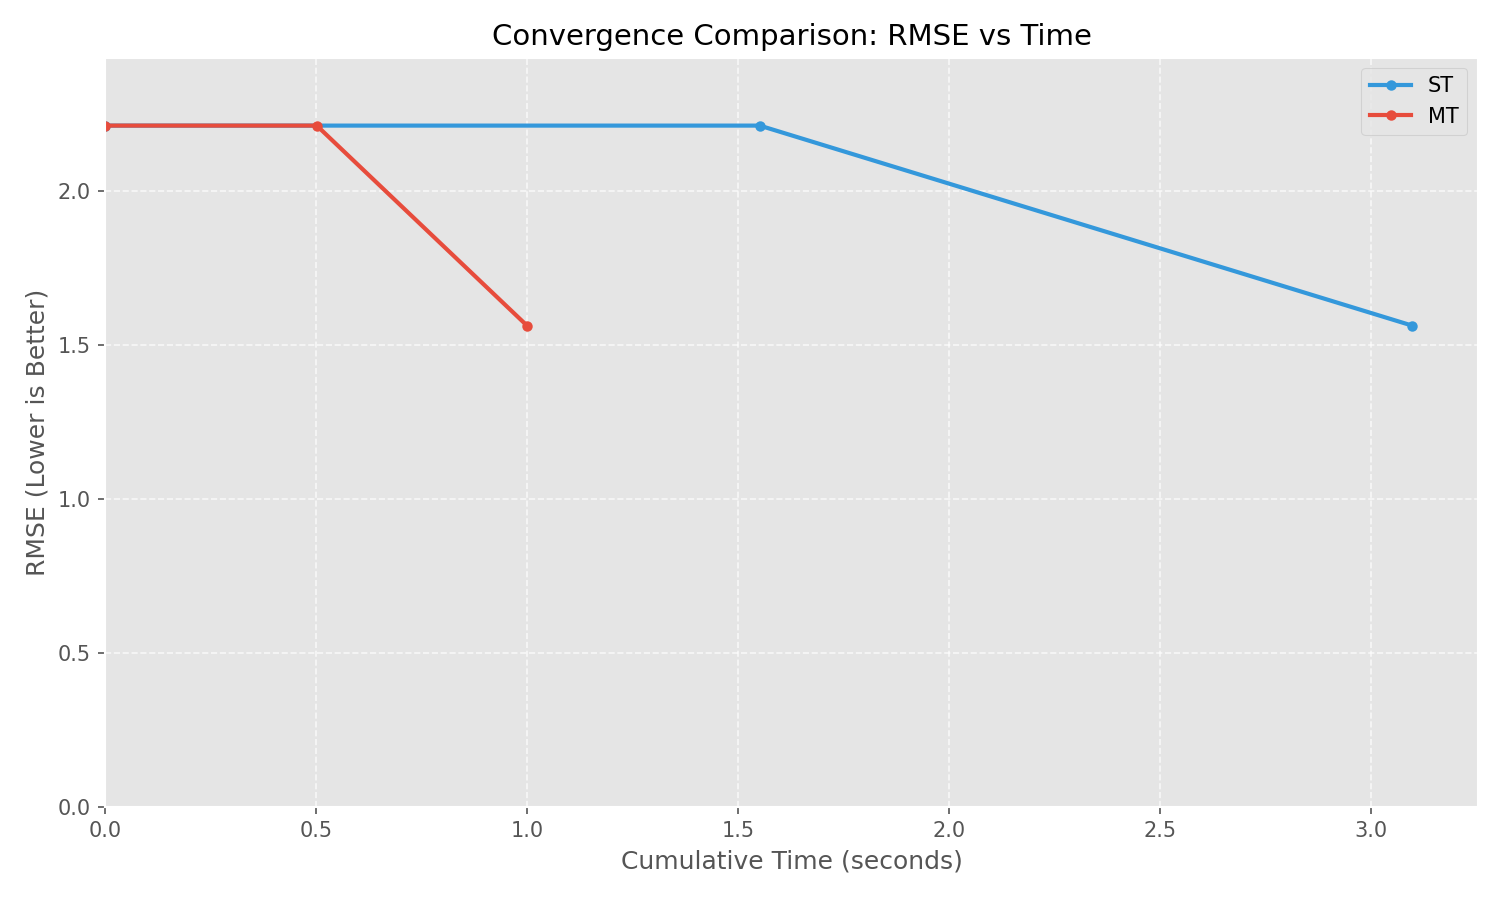
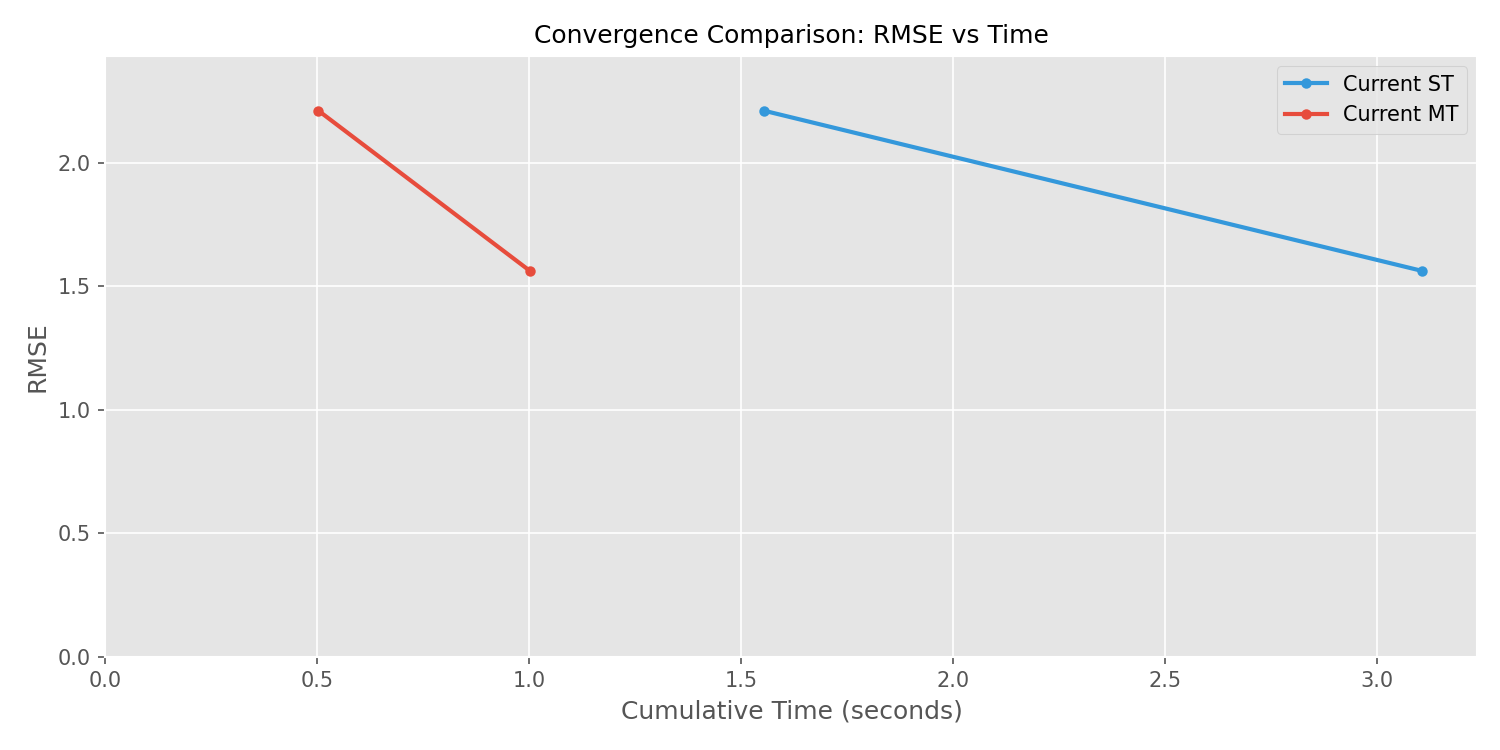
Benchmark: 0.1.0-build.95

diff --git a/README.md b/README.md
@@ -4,20 +4,12 @@
 | Mode | Final RMSE | Total Time | Steps |
 |---|---|---|---|
 | **MT** | 1.5629 | 1.00s | 2 |
-| **ST** | 1.5629 | 3.10s | 2 |
+| **ST** | 1.5629 | 3.11s | 2 |
 
 
 ## Historical Trend
-```mermaid
-xychart-beta
-    title "Historical Performance (RMSE)"
-    x-axis ["b.89", "b.90", "b.92", "b.93"]
-    y-axis "RMSE" 0 --> 1.8755
-    line [1.5629, 1.5629, 1.5629, 1.5629]
-    line [1.5629, 1.5629, 1.5629, 1.5629]
-```
-
-> **Legend:** Line 1: **MT** | Line 2: **ST**
+## Historical Trend
+![Historical Trend](renderings/history_trend.png)
 
 ## Latest Render Gallery
 | MT | ST |
@@ -28,4 +20,4 @@ xychart-beta
 ![Convergence Plot](renderings/convergence.png)
 
 ---
-*Last updated: 2026-02-18T17:00:38.147188 (Commit: bde8508e)*
+*Last updated: 2026-02-18T17:16:25.360330 (Commit: 09caaa08)*
